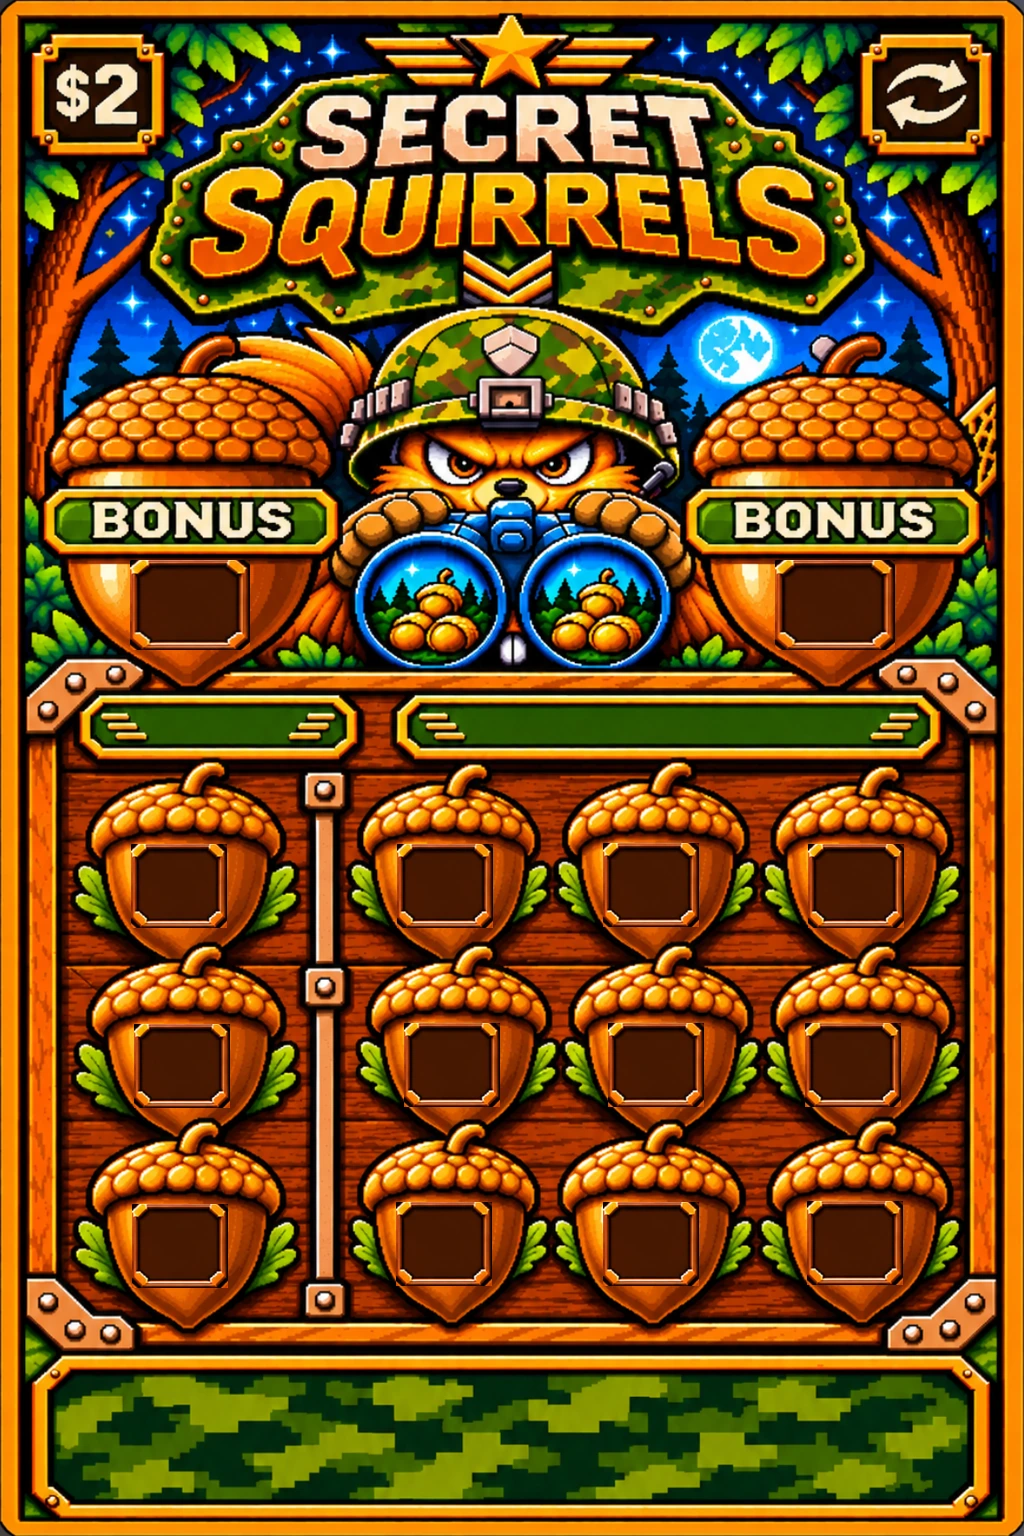
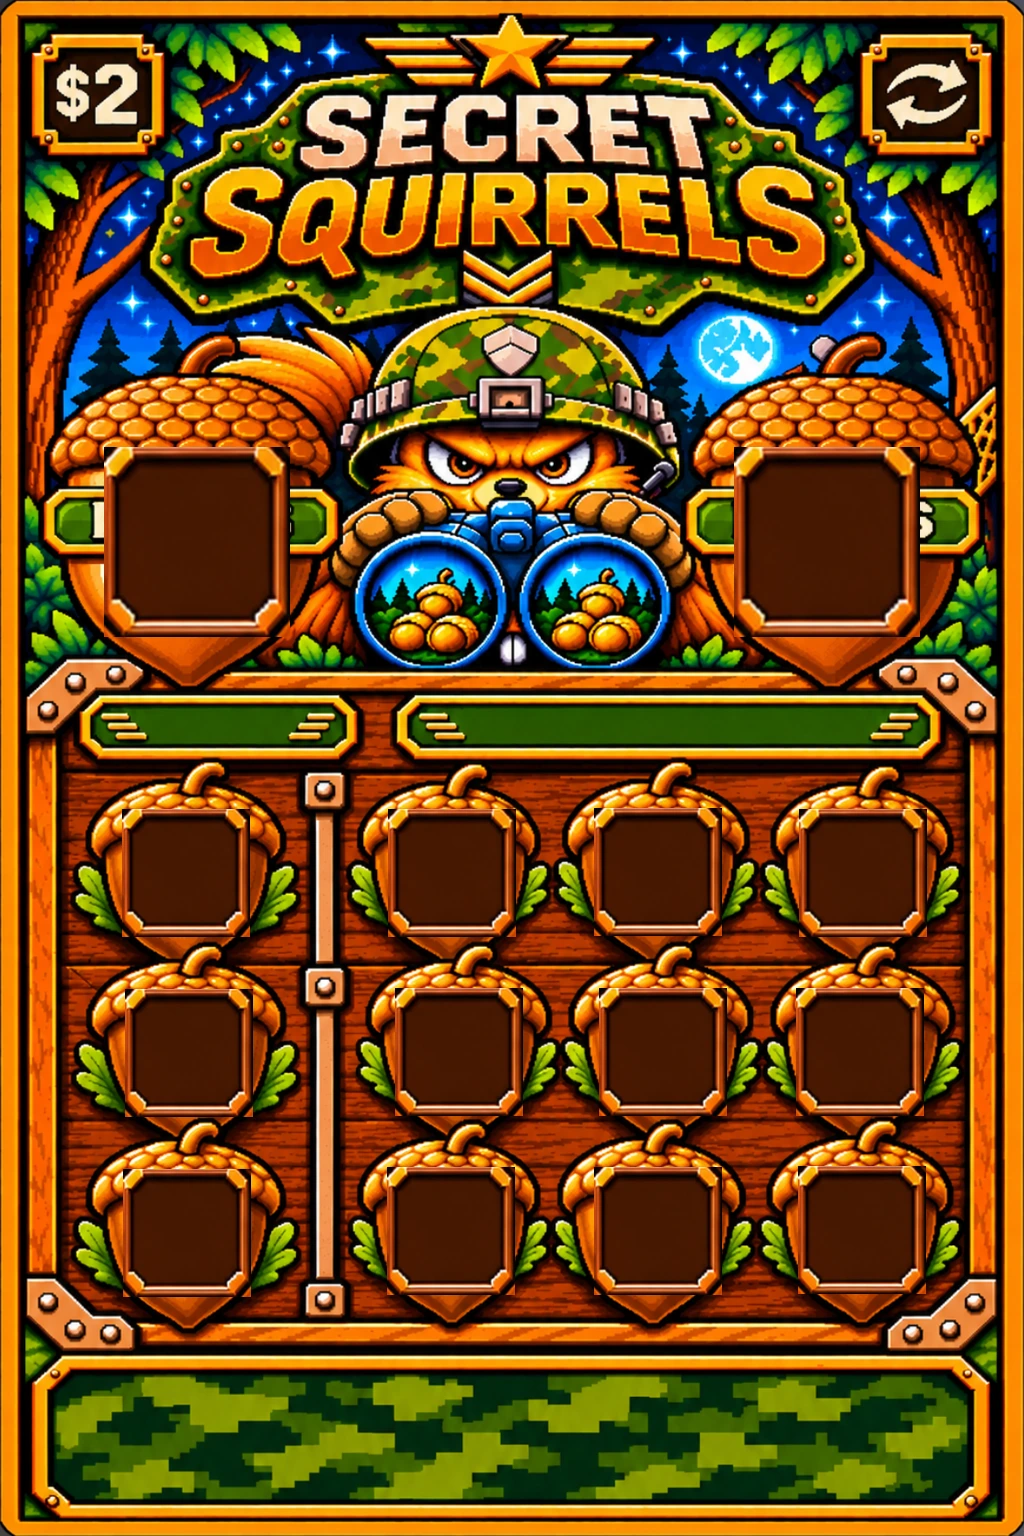
preview (not live): v3.16.0 Secret Squirrels bigger reveal boxes at owner's drawn sizes (128x128, bonus 186x190)
Boxes may now cover banner, caps and background, like a real ticket.

Claude-Session: https://claude.ai/code/session_01KmGxi5FWQEcSyM2TCx745j

diff --git a/secret-squirrels.html b/secret-squirrels.html
@@ -33,8 +33,8 @@ main{max-width:520px;margin:0 auto;padding:2px 0 18px;text-align:center}
 <main>
 <div class="stage" id="ticket">
 <div class="inner">
-<img id="front" src="secret-squirrels-front.webp?v=3.16.0" alt="Secret Squirrels two-dollar scratch-off ticket front: two bonus acorns and twelve acorns to scratch." draggable="false">
-<img id="back" src="secret-squirrels-back.webp?v=3.16.0" alt="Secret Squirrels back. Blank wooden instructions area and three military squirrels." draggable="false" hidden>
+<img id="front" src="secret-squirrels-front.webp?v=3.16.0b" alt="Secret Squirrels two-dollar scratch-off ticket front: two bonus acorns and twelve acorns to scratch." draggable="false">
+<img id="back" src="secret-squirrels-back.webp?v=3.16.0b" alt="Secret Squirrels back. Blank wooden instructions area and three military squirrels." draggable="false" hidden>
 <canvas id="scratch" width="1024" height="1536" aria-label="Scratch the acorns to reveal what is inside"></canvas>
 </div>
 <button type="button" class="flip" id="flip" aria-label="Flip ticket to back" title="Flip ticket"></button>
@@ -73,10 +73,10 @@ flip.addEventListener('click',function(){
 // Reveal windows on the 1024x1536 ticket (plain data so the game can copy it).
 // kind: winning = left column, yours = the 9 to the right, bonus = the two big acorns.
 const WINDOWS=[
- {id:'bonusL',kind:'bonus',x:130,y:560,w:120,h:90},{id:'bonusR',kind:'bonus',x:775,y:560,w:120,h:90},
- {id:'r1c1',kind:'winning',x:131,y:844,w:96,h:84},{id:'r1c2',kind:'yours',x:397,y:844,w:96,h:84},{id:'r1c3',kind:'yours',x:603,y:843,w:96,h:84},{id:'r1c4',kind:'yours',x:808,y:844,w:96,h:84},
- {id:'r2c1',kind:'winning',x:134,y:1024,w:96,h:84},{id:'r2c2',kind:'yours',x:404,y:1023,w:96,h:84},{id:'r2c3',kind:'yours',x:608,y:1023,w:96,h:84},{id:'r2c4',kind:'yours',x:805,y:1023,w:96,h:84},
- {id:'r3c1',kind:'winning',x:132,y:1204,w:96,h:84},{id:'r3c2',kind:'yours',x:396,y:1202,w:96,h:84},{id:'r3c3',kind:'yours',x:603,y:1202,w:96,h:84},{id:'r3c4',kind:'yours',x:807,y:1201,w:96,h:84}];
+ {id:'bonusL',kind:'bonus',x:104,y:447,w:186,h:190},{id:'bonusR',kind:'bonus',x:734,y:447,w:186,h:190},
+ {id:'r1c1',kind:'winning',x:122,y:809,w:128,h:128},{id:'r1c2',kind:'yours',x:388,y:809,w:128,h:128},{id:'r1c3',kind:'yours',x:594,y:808,w:128,h:128},{id:'r1c4',kind:'yours',x:799,y:809,w:128,h:128},
+ {id:'r2c1',kind:'winning',x:125,y:989,w:128,h:128},{id:'r2c2',kind:'yours',x:395,y:988,w:128,h:128},{id:'r2c3',kind:'yours',x:599,y:988,w:128,h:128},{id:'r2c4',kind:'yours',x:796,y:988,w:128,h:128},
+ {id:'r3c1',kind:'winning',x:123,y:1169,w:128,h:128},{id:'r3c2',kind:'yours',x:387,y:1167,w:128,h:128},{id:'r3c3',kind:'yours',x:594,y:1167,w:128,h:128},{id:'r3c4',kind:'yours',x:798,y:1166,w:128,h:128}];
 const SCRATCH={cell:8,brush:24,revealAt:0.6};   // 8 px pixel-art flakes, finger-sized brush, auto-finish at 60%
 const cv=document.getElementById('scratch'),cx=cv.getContext('2d'),cover=new Image();
 let cells=[],dragging=false,last=null,lastSfx=0;
@@ -116,7 +116,7 @@ function revealSound(){try{const C=window.AudioContext||window.webkitAudioContex
  [784,1175].forEach((fq,i)=>{const o=A.createOscillator(),g=A.createGain();o.type='square';o.frequency.value=fq;
  g.gain.setValueAtTime(.0001,t+i*.07);g.gain.exponentialRampToValueAtTime(.05,t+i*.07+.004);g.gain.exponentialRampToValueAtTime(.0001,t+i*.07+.12);
  o.connect(g);g.connect(A.destination);o.start(t+i*.07);o.stop(t+i*.07+.15);});}catch(err){}}
-cover.onload=setup;cover.src='secret-squirrels-cover.webp?v=3.16.0';
+cover.onload=setup;cover.src='secret-squirrels-cover.webp?v=3.16.0b';
 document.getElementById('newTicket').addEventListener('click',()=>{if(showingBack)flip.click();if(cover.complete)setup();});
 window.__secretSquirrels={WINDOWS,SCRATCH,scratchAt,reset:setup,revealed:()=>cells.filter(c=>c.done).map(c=>c.w.id),progress:()=>cells.map(c=>+(1-c.left/c.gone.length).toFixed(2))};
 function sendHeight(){try{parent.postMessage({secretSquirrelsHeight:Math.ceil(document.querySelector('main').getBoundingClientRect().bottom)+8},location.origin)}catch(err){}}
